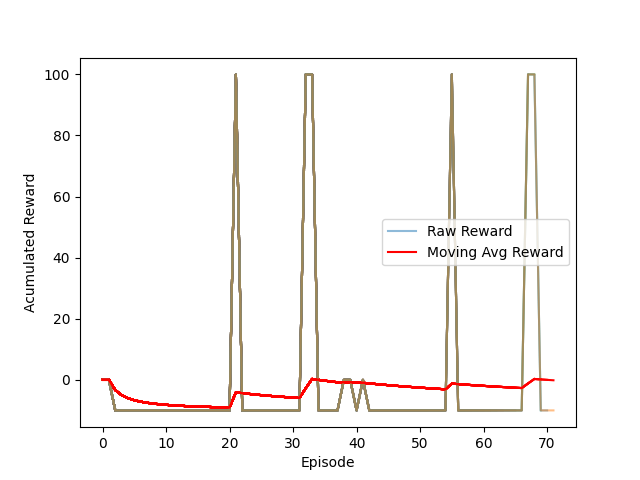
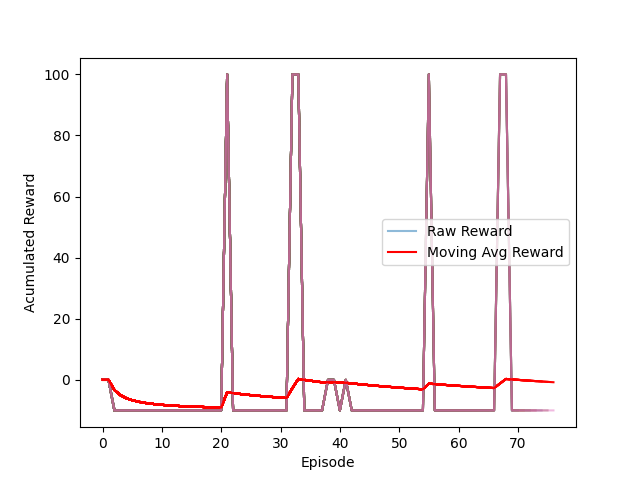
ddpg train file bug fix

diff --git a/foxy-gazebo/ddpg/train-ddpg.py b/foxy-gazebo/ddpg/train-ddpg.py
@@ -145,7 +145,7 @@ class RobotControllerNode(Node):
             rclpy.spin_once(self, timeout_sec=0.5)
             sleep(0.1)
 
-        state, _, _, _, _, _ = self.get_state()
+        state, _, _, _, _, _ = self.get_state(cmd_vel_msg.linear.x, cmd_vel_msg.angular.z)
 
         return state
         
@@ -164,7 +164,7 @@ class RobotControllerNode(Node):
         elif np.min(lidar_32) < 0.19:
             print('Episode ended with collision')
             done = True
-            reward = -100
+            reward = -10
 
         return reward, done
 
@@ -172,7 +172,7 @@ class RobotControllerNode(Node):
 
 
     def rl_control_loop(self):
-        num_states = 26
+        num_states = 14
         num_actions = 2
 
         upper_bound = .25
@@ -217,9 +217,6 @@ class RobotControllerNode(Node):
 
                 tf_prev_state = tf.expand_dims(tf.convert_to_tensor(state), 0)
 
-                system('clear')
-                print('distance: ', state[24])
-                print('angle: ', state[25])
 
                 action = agent.policy(tf_prev_state)[0]
 
@@ -235,7 +232,7 @@ class RobotControllerNode(Node):
 
                 rclpy.spin_once(self, timeout_sec=0.5)
 
-                state_, turtle_x, turtle_y, target_x, target_y, lidar32 = self.get_state()
+                state_, turtle_x, turtle_y, target_x, target_y, lidar32 = self.get_state(0, 0)
 
                 # pause again
                 self.call_service_sync(self.pause_simulation_client, Empty.Request())
